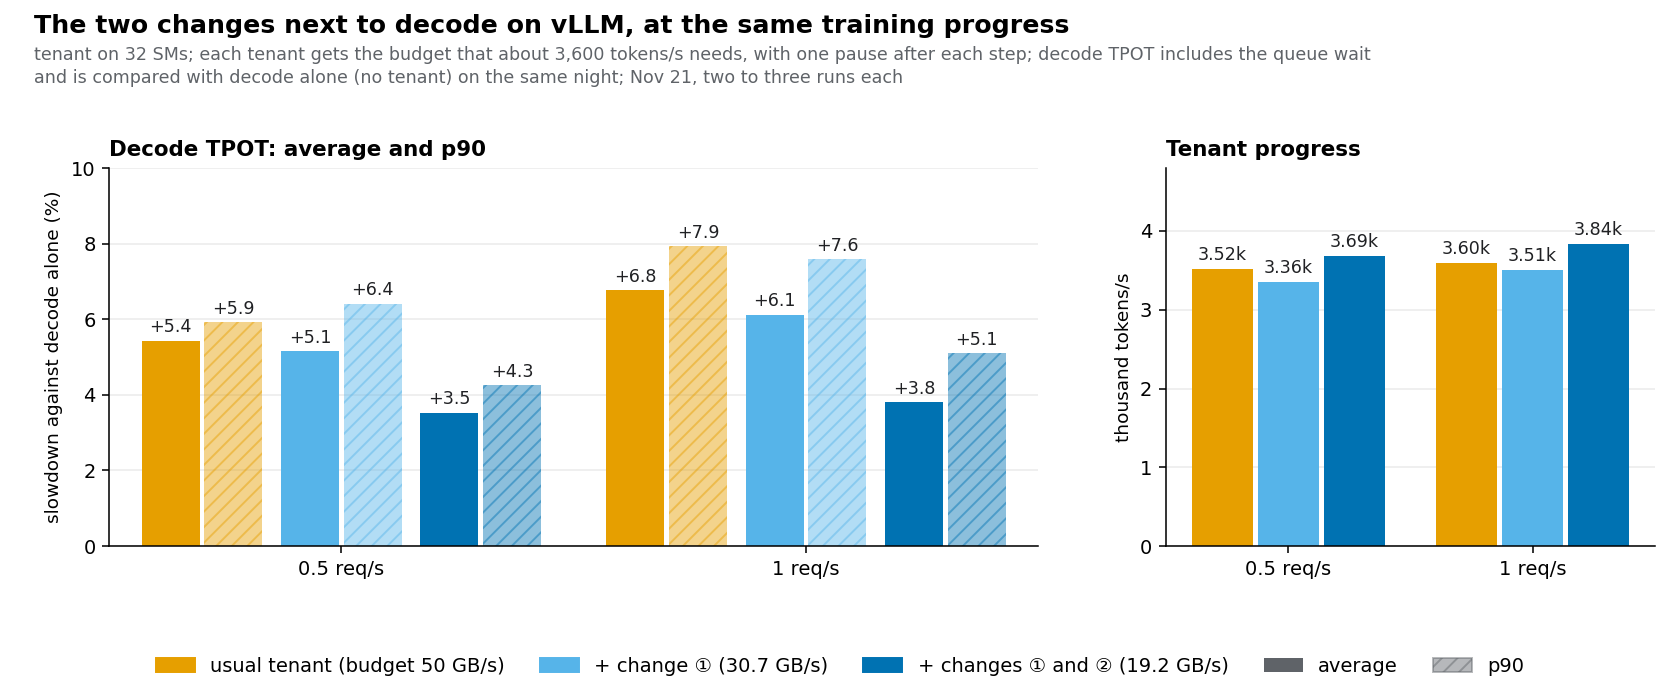
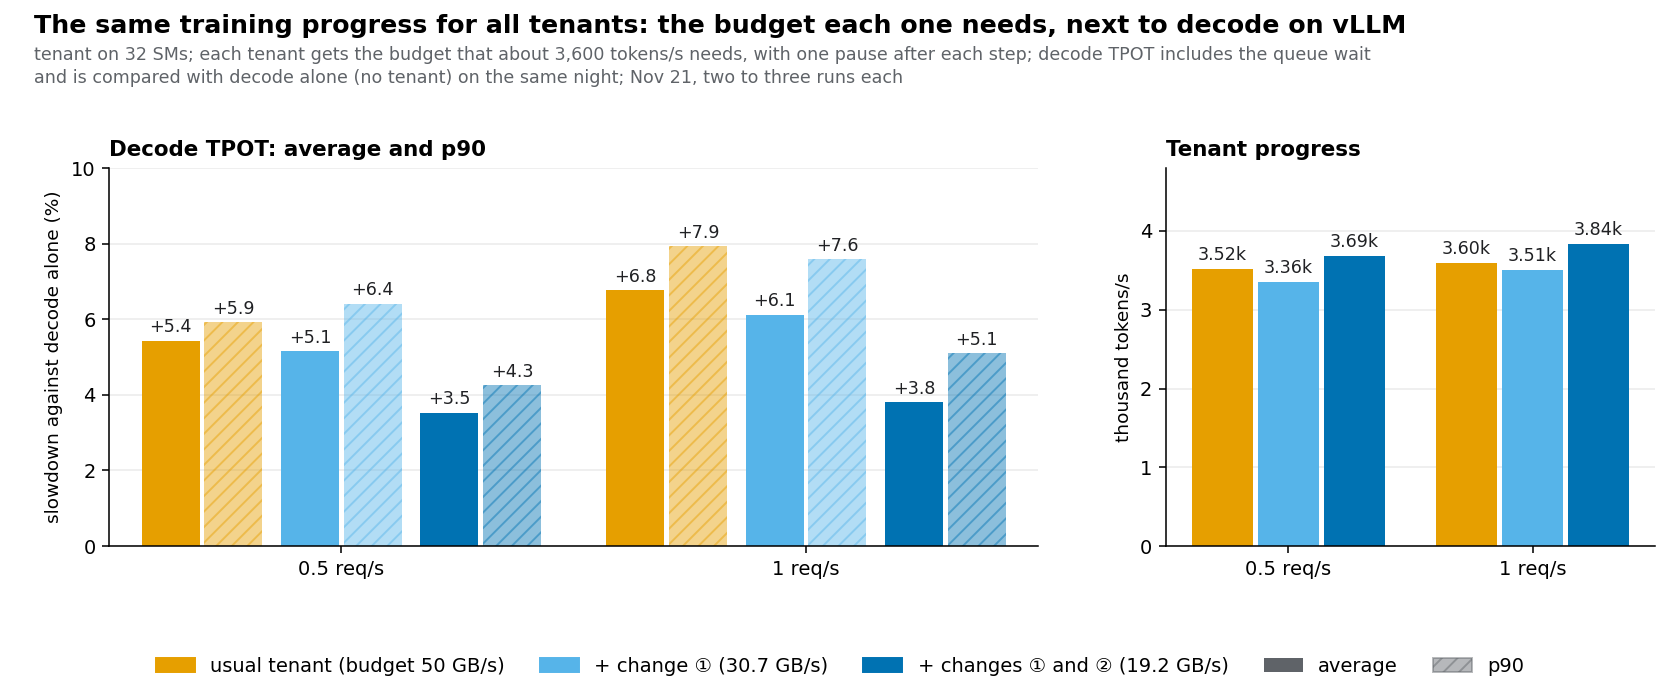
storyline/: step 14, the tenant with both changes at the usual tenant's budget, and at the usual tenant's training progress
14.1 same budget (50 GB/s): runs of Nov 22 (results_b50: engine alone, tenant with both changes with a pause after
the step and with chunks of 12 ms). Decode TPOT +6.7 / +7.8 % against +5.4 / +6.8 % for the usual tenant (Nov 21):
not faster; single-step p99 +7.4 % against +23.7 %; the tenant trains 2.5 times as much and is hardly held by the
budget (computing 89-96 % of the time, 43-46 GB/s by its table). Why decode is not faster with fewer bytes is open.
14.2 same training progress (the runs of Nov 21, budgets 50 / 30.7 / 19.2 GB/s): +3.5 / +3.8 %; the budget as a knob.
results_b50: phase tables, t0 and night summary (raw logs stay local, as for the other nights).

Changed region(s): [[0.0619, 0.0, 0.8357, 0.06]]

diff --git a/storyline/make_bws_figs.py b/storyline/make_bws_figs.py
@@ -314,7 +314,7 @@ def changes_result(out_name="bwr_result.png"):
             (["cvfm_step_r2", "cvfm_step_r3", "cvfm_step_r4"], "+ changes ① and ② (19.2 GB/s)", "#0072B2")]
     bm, b90 = by_rate(rd, base, "mean", rates), by_rate(rd, base, 90, rates)
     fig, ax = plt.subplots(1, 2, figsize=(12.0, 5.0), gridspec_kw=dict(width_ratios=[1.9, 1])); fig.subplots_adjust(top=0.76, bottom=0.22, left=0.065, right=0.985, wspace=0.18)
-    fig.suptitle("The two changes next to decode on vLLM, at the same training progress", x=0.02, ha="left", fontsize=13, fontweight="bold")
+    fig.suptitle("The same training progress for all tenants: the budget each one needs, next to decode on vLLM", x=0.02, ha="left", fontsize=13, fontweight="bold")
     fig.text(0.02, 0.905, "tenant on 32 SMs; each tenant gets the budget that about 3,600 tokens/s needs, with one pause after each step; decode TPOT includes the queue wait\n"
              "and is compared with decode alone (no tenant) on the same night; Nov 21, two to three runs each", ha="left", va="center", fontsize=9, color=MUTE, linespacing=1.4)
     w = 0.125; gap = 0.01; n = len(ARMS)
@@ -413,3 +413,33 @@ def chunk_detail(variant="cb_vocab4096f", out_name="bwr_chunks_detail.png", zoom
                loc="lower center", ncol=6, frameon=False, fontsize=9.5, bbox_to_anchor=(0.5, 0.008), columnspacing=1.8)
     out = os.path.join(H, "figures", out_name); fig.savefig(out, dpi=140); plt.close(fig); print(out)
 chunk_detail()
+
+# ---------------------------------------------------------------- one budget for both tenants (50 GB/s), next to decode on vLLM
+# Usual tenant: results_n21/c1_fix (+ _r2), Nov 21. Tenant with both changes: results_b50/cvfm_step_b50, Nov 22. Both pause once after
+# each step; each against decode alone of its own night (TPOT alone 12.92 / 13.81 ms and 12.92 / 13.82 ms at 0.5 / 1 req/s).
+def same_budget_result(out_name="bwr_same_budget.png"):
+    rates = [0.5, 1]
+    ARMS = [("results_n21", ["adjust_notenant", "adjust_notenant_b", "adjust_notenant_c", "adjust_notenant_d", "adjust_notenant_e"], ["c1_fix", "c1_fix_r2"], "usual tenant", "#E69F00"),
+            ("results_b50", ["adjust_notenant_a"], ["cvfm_step_b50"], "tenant with changes ① and ②", "#0072B2")]
+    fig, ax = plt.subplots(1, 2, figsize=(11.5, 5.0), gridspec_kw=dict(width_ratios=[1.75, 1])); fig.subplots_adjust(top=0.76, bottom=0.20, left=0.07, right=0.985, wspace=0.20)
+    fig.suptitle(f"The same budget for both tenants ({BUDGET} GB/s), next to decode on vLLM", x=0.02, ha="left", fontsize=13, fontweight="bold")
+    fig.text(0.02, 0.905, "tenant on 32 SMs, one pause after each step; decode TPOT includes the queue wait; each bar against decode alone (no tenant) of its own night:\n"
+             "usual tenant on Nov 21 (two runs), tenant with both changes on Nov 22 (one run)", ha="left", va="center", fontsize=9, color=MUTE, linespacing=1.4)
+    w = 0.19; gap = 0.015
+    for k, (rd, base, arms, name, col) in enumerate(ARMS):
+        bm, b90 = by_rate(rd, base, "mean", rates), by_rate(rd, base, 90, rates); m, p = by_rate(rd, arms, "mean", rates), by_rate(rd, arms, 90, rates)
+        ten = [float(np.mean([pd.read_csv(os.path.join(CA, rd, f"{a}_phases.csv")).query("rps == @r").ft_tok_s.mean() for a in arms])) / 1e3 for r in rates]
+        avg = [(m[r] / bm[r] - 1) * 100 for r in rates]; p90 = [(p[r] / b90[r] - 1) * 100 for r in rates]
+        print(f"{name:30s} avg " + " ".join(f"{v:+.1f}%" for v in avg) + "  p90 " + " ".join(f"{v:+.1f}%" for v in p90) + "  tenant " + " ".join(f"{v:.2f}k" for v in ten) + "   decode alone " + " ".join(f"{bm[r]:.2f}" for r in rates) + " ms")
+        for i in range(len(rates)):
+            xa = i + (2 * k - 1.5) * (w + gap) - (0.02 if k == 0 else -0.02); xp = xa + w + gap
+            ax[0].bar(xa, avg[i], w, color=col, lw=0, zorder=2); ax[0].bar(xp, p90[i], w, color=col, lw=0, alpha=0.45, hatch="///", edgecolor=col, zorder=2)
+            for x, v in ((xa, avg[i]), (xp, p90[i])): ax[0].text(x, v + 0.15, f"{v:+.1f} %", ha="center", va="bottom", fontsize=9, color=INK)
+            xt = i + (k - 0.5) * 0.39; ax[1].bar(xt, ten[i], 0.36, color=col, lw=0, zorder=2); ax[1].text(xt, ten[i] + 0.12, f"{ten[i]:.2f}k", ha="center", va="bottom", fontsize=9.5, color=INK)
+    for a, name, ymax, yl in zip(ax, ("Decode TPOT: average and p90", "Tenant progress"), (12, 11), ("slowdown against decode alone (%)", "thousand tokens/s")):
+        a.set_title(name, loc="left", fontsize=11, fontweight="bold"); a.set_xticks(range(len(rates))); a.set_xticklabels([f"{r:g} req/s" for r in rates], fontsize=10); a.set_ylim(0, ymax); a.set_ylabel(yl, fontsize=9.5)
+        a.set_xlim(-0.5, len(rates) - 0.5); a.grid(True, axis="y", alpha=0.25); a.set_axisbelow(True); a.spines[["top", "right"]].set_visible(False)
+    fig.legend(handles=[Patch(color=c, label=n) for _, _, _, n, c in ARMS] + [Patch(facecolor="#5f6368", label="average"), Patch(facecolor="#5f6368", alpha=0.45, hatch="///", edgecolor="#5f6368", label="p90")],
+               loc="lower center", ncol=4, frameon=False, fontsize=10, bbox_to_anchor=(0.5, 0.01), columnspacing=2.2)
+    out = os.path.join(H, "figures", out_name); fig.savefig(out, dpi=140); plt.close(fig); print(out)
+same_budget_result()

diff --git a/storyline/storyline_zh.md b/storyline/storyline_zh.md
@@ -7,7 +7,7 @@
 约定：显存 = GPU 上的内存；主机内存 = 机器的内存。数字后面都注明是哪一次测的、和什么比。
 
 状态：第 0–14 步已记录（第 8 步是问题 3 的前半：观察、排除主机拷贝、GPU 内部带宽、两个验证；第 9–12 步是"能不能调度 GPU 内部带宽"：
-两个方向、最简单的带宽额度、profile、改 tenant 的两处改动、按分段表切块；第 14 步的结果待重测）；后面的部分还没讲到。
+两个方向、最简单的带宽额度、profile、改 tenant 的两处改动、按分段表切块、和 decode 一起跑的结果）；后面的部分还没讲到。
 
 ---
 
@@ -942,14 +942,40 @@ checkpoints between them"是图 11-1 下半那个只多加了标记的 tenant。
 
 ---
 
-## 14. 结果：和 decode 一起跑（待用统一的额度重测）
+## 14. 结果：和 decode 一起跑
 
-> **这一步要重做。** 下面这组里三档 tenant 的额度不同（每秒 50、30.7、19.2 GB），实现和额度同时变了，不是只改一个变量的对比。
-> 统一额度（每秒 50 GB）的运行正在补测（`coloc_adjust/results_b50`），出来之后替换这一步。下面先保留已有的数据。
+设置和第 10 步一样：tenant 在 32 个 SM 上，给一个带宽额度，用第 13 步的方式记账。下面分两种比法：先让两种 tenant 用同一个额度，再让它们做同样多的训练。
 
+### 14.1 同样的额度：decode 没有变快，tenant 训练得快了 2.5 倍
 
-怎么比：设置和第 10 步一样（tenant 在 32 个 SM 上，给一个带宽额度）。要比的是"做同样多的训练，decode 付出多少"，所以三种 tenant 都按每秒约 3,600 个 token
-来定额度。每个 token 搬的数据不同，额度也就不同：
+![图 14-1](figures/bwr_same_budget.png)
+
+*图 14-1：两种 tenant 都给每秒 50 GB 的额度。左，decode 的 TPOT 比没有 tenant 时慢多少（实心是平均，斜线是 p90）；右，tenant 的训练进度。*
+
+| tenant，额度都是每秒 50 GB | TPOT 平均（0.5 / 1 req/s） | TPOT p90（0.5 / 1 req/s） | decode 单步时间的 p99 | tenant 进度（0.5 / 1 req/s） | tenant 在算的时间 | 实际搬的数据（按表算） |
+|---|---|---|---|---|---|---|
+| 普通，整步后歇 | +5.4 % / +6.8 % | +5.9 % / +7.9 % | +23.7 % | 3.52k / 3.60k tok/s | 54 % / 63 % | 50 / 52 GB/s |
+| 两处都改，整步后歇 | +6.7 % / +7.8 % | +9.1 % / +9.9 % | +7.4 % | 8.69k / 9.13k | 89 % / 96 % | 43 / 46 GB/s |
+| 两处都改，按块停 | +6.2 % / +7.1 % | +7.9 % / +8.7 % | +6.3 % | 8.11k / 8.43k | 85 % / 91 % | 41 / 43 GB/s |
+
+读出来的东西：
+
+- **decode 的平均没有变快**：同样的额度下，换成改过的 tenant，TPOT 平均反而多慢约 1 个点，p90 多慢 2–3 个点。
+- **decode 个别很慢的步没有了**：单步时间的 p99 从 +23.7 % 降到 +7.4 %。普通 tenant 那四个尖峰造成的就是这个尾巴。
+- **tenant 的训练进度是原来的 2.5 倍。** 原因是额度按数据量算，而改过的 tenant 每个 token 只搬 5.0–5.3 MB（普通 tenant 是 13.95 MB），同样每秒 50 GB 能换来的 token 就多了。
+  实际上它已经不是被额度限住的：它 89–96 % 的时间都在算，全速也只搬到每秒 43–46 GB，没到 50。普通 tenant 则有约四成的时间在歇。
+- **按块停**和整步后歇比，decode 好约半个点，tenant 也少训练约 7 %，两者大致成比例。
+
+**没有解释的一点：搬的数据少了一成多，decode 为什么没有变快，反而略慢？** 现在不知道。能说的只有：
+- "实际搬的数据"是按 tenant 单独跑时量的表算的。改过的 tenant 靠中间结果留在芯片的缓存里来少搬数据，而这块缓存是整张卡共用的；
+  和 decode 一起跑时它是不是还搬这么少，没有量过。
+- 除了搬数据，之前在模拟 decode 上单独测过另外两样也会让 decode 变慢（报告 2）：频繁启动 kernel，和矩阵乘法本身的运算。
+  改过的 tenant 每秒做的运算是普通 tenant 的 2.5 倍，这两样都可能变大了。它们没有和搬数据放在一起量过，tenant 每秒启动多少 kernel 也没有量过。
+- 排除了功耗：这几次运行里整卡功率是 320–400 W（上限 500 W），时钟频率和没有 tenant 时一样。
+
+### 14.2 同样的训练进度：额度可以收紧，decode 少慢约四成
+
+换一种比法：不让改过的 tenant 多训练，让它和普通 tenant 做一样多的训练（每秒约 3,600 个 token）。它每个 token 搬的数据少，需要的额度也就小：
 
 | tenant | 每个 token 搬的数据 | 每秒 3,600 个 token 需要的额度 |
 |---|---|---|
@@ -957,12 +983,9 @@ checkpoints between them"是图 11-1 下半那个只多加了标记的 tenant。
 | ＋改动一 | 8.54 MB | 30.7 GB/s |
 | ＋改动一、二 | 5.34 MB | 19.2 GB/s |
 
-也就是说，额度不是三档都给每秒 50 GB。改 tenant 的好处正是：做同样多的训练，需要的额度变小了。如果三档都给每秒 50 GB，改过的 tenant 会训练得更快，
-比的就不是同样多的训练了。
+![图 14-2](figures/bwr_result.png)
 
-![图 12-5](figures/bwr_result.png)
-
-*图 12-5：左，decode 的 TPOT 比没有 tenant 时慢多少（实心是平均，斜线是 p90）；右，tenant 的训练进度。*
+*图 14-2：三种 tenant 做同样多的训练，各自给它需要的额度。左，decode 的 TPOT 比没有 tenant 时慢多少（实心是平均，斜线是 p90）；右，tenant 的训练进度。*
 
 | tenant | 额度 | TPOT 平均（0.5 / 1 req/s） | TPOT p90（0.5 / 1 req/s） | decode 单步时间的 p99 | tenant 进度（0.5 / 1 req/s） |
 |---|---|---|---|---|---|
@@ -972,29 +995,38 @@ checkpoints between them"是图 11-1 下半那个只多加了标记的 tenant。
 
 读出来的东西：
 
-- **平均**：两处都做之后，decode 的变慢从 +5.4 % / +6.8 % 降到 +3.5 % / +3.8 %，少了约四成；p90 从 +5.9 % / +7.9 % 降到 +4.3 % / +5.1 %。
-- **但只做改动一，平均几乎没变**（+5.1 % / +6.1 %），尽管它已经去掉了尖峰、每秒搬的数据也少了约四成。它改善的是尾巴：
-  decode 单步时间的 p99 从 +23.7 % 降到 +6.9 %。所以**尖峰造成的是 decode 个别很慢的步，不是平均的变慢**。
-- **tenant 的进度**三档接近，两处都做的那档还略快（+5 到 +7 %），所以它对 decode 的好处没有被高估。
-- **和"均匀搬运"比，差距没有缩小。** 按 8.5 节那条线，同样的额度均匀搬运时 decode 大约慢 +3.0–3.5 %、+1.8–2.2 %、+0.8–1.6 %
-  （后两个是在 0 和 50 GB/s 两个测点之间插值的）。三档实测都明显更高。也就是数据量和 decode 的代价一起降了，但真实 tenant 每搬 1 GB 的代价始终比只搬数据的任务高，
-  原因没有查清。
+- **同样的训练进度下，decode 的变慢从 +5.4 % / +6.8 % 降到 +3.5 % / +3.8 %**，少了约四成；p90 从 +5.9 % / +7.9 % 降到 +4.3 % / +5.1 %。
+- 只做改动一时平均几乎没变（+5.1 % / +6.1 %），改善的是尾巴（单步 p99 从 +23.7 % 到 +6.9 %）。
+- tenant 的进度三档接近，两处都做的那档还略快（+5 到 +7 %）。
+- 这张图里实现和额度是一起变的，所以它回答的不是"同样的带宽下 decode 少慢多少"（那是 14.1），而是"同样的训练，改过的 tenant 让 decode 少付多少"。
+
+**额度是一个连续的旋钮。** 两处都改的 tenant 在不同额度下（按块停；每个额度一次或三次运行）：
+
+| 额度 | TPOT 平均（0.5 / 1 req/s） | tenant 进度（0.5 / 1 req/s） |
+|---|---|---|
+| 9.6 GB/s | +2.4 % / +2.7 % | 1.80k / 1.88k tok/s |
+| 19.2 GB/s | +3.5 % / +3.9 % | 3.69k / 3.84k |
+| 38.4 GB/s | +5.5 % / +6.2 % | 6.88k / 7.13k |
+| 50 GB/s | +6.2 % / +7.1 % | 8.11k / 8.43k |
+
+decode 的变慢和 tenant 的进度一起升降，接近一条直线。所以两种比法是同一条线上的两个读法：横着看（同样的代价）改过的 tenant 多训练，竖着看（同样的训练）decode 少慢。
+另外额度不变（每秒 19.2 GB）、tenant 改用 16 或 64 个 SM 时，decode 是 +3.6 % / +4.1 到 +4.2 %，和 32 个 SM 一样。
 
 数据说明：
-- vLLM，11 分钟的参考负载，11 月 21 日那晚（GPU 0，500 W）。基准是同一晚没有 tenant 的 decode（5 次合在一起，各次之间平均最多相差 0.3 %）。
-  普通和＋改动一各 2 次，两处都做 3 次；同一设置重复跑，平均最多相差 0.2 个点。TPOT 含排队。
+- vLLM，11 分钟的参考负载，GPU 0，500 W，TPOT 含排队。每个数都是和**同一晚没有 tenant 的 decode** 比。
+- **14.1 的两种 tenant 不是同一晚测的**：普通 tenant 是 11 月 21 日（`results_n21/c1_fix`，2 次），两处都改的是 11 月 22 日（`results_b50`，整步后歇和按块停各 1 次）。
+  两晚没有 tenant 时 decode 的 TPOT 几乎相同（12.92 / 13.81 毫秒对 12.92 / 13.82 毫秒）。只做改动一的 tenant 没有在每秒 50 GB 下跑过。
+- 14.1 里 1 个点左右的差别只来自一次运行，不能说"改过的 tenant 让 decode 更慢"，只能说"没有更快"。
+- 14.2 的三档都是 11 月 21 日那晚测的，都是整步后歇；普通和＋改动一各 2 次，两处都改 3 次，同一设置重复跑平均最多相差 0.2 个点。
+  缺"改动二只用在 24 层上"那一档，所以改动二用在 24 层上和用在输出层上各自的贡献分不开。
 - **decode 单步时间的 p99**：把相邻两个 token 之间的间隔逐个拿出来，去掉别的请求刚进来时那几个本来就很长的间隔，按当时有几个请求在生成分组，
   各组和基准的同一组比，再取平均；0.5 和 1 req/s 合在一起算。各次基准之间这个量相差约 4 %，所以 3–4 个点以内的差别不算数。
-- **停法**：这一晚三档用的都是"整步算完再歇一次"（第 13 步的记账方式里时间窗取无穷大的那种；普通 tenant 用的是旧代码里同样的停法）。
-- **缺"改动二只用在 24 层上"那一档**：它只有 tenant 单独跑的数据（图 12-4 的第三行），没有在 vLLM 上跑过，所以改动二用在 24 层上和用在输出层上各自对 decode 的贡献分不开。
-- **两处都做的 tenant 还有两点不同**：它需要的显存少（同一种分批方式下 2.3 GiB 对 5.0 GiB），所以多数时候用更大的分批方式（约 90 % 的步是 2 批、每批 4 条）；
-  它不使用把一部分数据放到主机内存的那几种分批方式（逐层编译不支持）。整个 11 分钟里它的进度是 2,480 tok/s，普通 tenant 是 2,145。
+- "实际搬的数据"是 tenant 的训练速度乘以它单独跑时每个 token 搬的数据量，不是直接量的。"在算的时间"是 tenant 自己记录的每步用时减去歇的时间。
+- 只看 0.5 和 1 req/s：更高的到达率下 tenant 的显存不够，进度由显存决定（7.4 节）。
+- 两处都改的 tenant 需要的显存少（同一种分批方式下 2.3 GiB 对 5.0 GiB），所以多数时候用更大的分批方式（2 批、每批 4 条，这时每个 token 搬 5.0 MB）；
+  它不使用把一部分数据放到主机内存的那几种分批方式（逐层编译不支持）。
 - **训练内容是否相同**：同一批数据上 loss 一致到小数点后 5 位；LoRA 参数的梯度相差约 0.5 %，而普通 tenant 自己连跑两次也相差 0.4 %。
   连续训练 1,500 步，新旧两种 tenant 每步 loss 平均相差 0.0009，普通 tenant 自己两次运行之间是 0.0014。是"在数值误差范围内相同"，不是逐位相同。
-- 图 12-2 的操作和大小来自 `coloc_adjust/compile_demo.py`（CPU 上记录；GPU 上合并的是同一批操作，生成的代码不同）。图 12-3 的操作顺序来自
-  `coloc_adjust/head_loss.py`，大小按张量形状算。整个一层里具体哪些操作被合并了、词表块里是不是正好合成一个 kernel，没有打开生成的代码逐个确认；量过的是图 12-4 的结果。
-- 图 12-1、12-4 来自 `coloc_adjust/results_prof/seg_summary.md`（tenant 单独跑，32 个 SM）。
-- 之前的报告和代码里把"改动二用在输出层上"单独叫作改动三或"融合 kernel"，是同一件事。
 
 ---
 
@@ -1015,7 +1047,7 @@ checkpoints between them"是图 11-1 下半那个只多加了标记的 tenant。
 | 第 11 步的图用的是之前报告里的词（micro-batch、block、checkpoint）；要不要按故事线的词重画 | 你定；不需要实验 |
 | 第 12.1 步的图用的是之前报告里的词（block 指层），和第 11 步的图一样；要不要按故事线的词重画 | 你定；不需要实验 |
 | 第 14 步缺"改动二只用在 24 层上"在 vLLM 上的一档，改动二在 24 层上和在输出层上的贡献分不开 | 你定；新实验，每次 11 分钟 GPU；等"启动" |
-| 第 14 步：真实 tenant 每搬 1 GB 的代价始终高于只搬数据的任务，数据量减下去之后差距没有缩小；原因没有查清 | 要不要查、怎么讲，你定 |
-| 第 14 步现有的对比同时改了实现和额度；统一额度（每秒 50 GB）的运行在补测 | 11 月 22 日晚已启动两处都改的 tenant（两种停法）和基准；做了改动一的 tenant 在每秒 50 GB 下还没有 |
-| 第 13 步：额度现在保证的是平均值（12 毫秒窗口里最高到额度的 1.4 倍，1 毫秒里是 tenant 的全速），而目标是上限。做法一：记账改成严格模式（块在将要超过之前切、迟到不补），保证任意 12 毫秒不超额度；做法二：用 tenant 的 SM 数压低它算的时候的流量 | 先放着（Jiaxuan，11 月 22 日）；要改代码和用 GPU，等"启动"；定了之后第 13 步的文字和图 13-3 要跟着改 |
+| 第 14.1 步：搬的数据少了，decode 为什么没有变快。要查三件事：① vLLM 运行时记录整卡的带宽计数器，看 tenant 在 decode 旁边实际搬多少；② 数普通和改过的 tenant 每秒启动多少 kernel；③ 在 vLLM 上做单一工作的对照（只搬数据、只启动 kernel、只做矩阵乘法） | 先把故事讲完再补（Jiaxuan，11 月 22 日）；新实验，等"启动" |
+| 第 14.1 步的两种 tenant 不是同一晚测的，改过的只跑了一次；只做改动一的 tenant 在每秒 50 GB 下没跑过 | 你定；新实验，每次 11 分钟；等"启动" |
+| 第 13 步：额度现在保证的是平均值（两处都改的 tenant 在 12 毫秒窗口里最高到额度的 1.9 倍，1 毫秒里是 tenant 的全速），而目标是上限。做法一：记账改成严格模式（块在将要超过之前切、迟到不补），保证任意 12 毫秒不超额度；做法二：用 tenant 的 SM 数压低它算的时候的流量 | 先放着（Jiaxuan，11 月 22 日）；要改代码和用 GPU，等"启动"；定了之后第 13 步的文字和图 13-3 要跟着改 |
 | 第 14 步之后的故事（额度由延迟反馈来定；总的结论） | 等你继续讲 |

diff --git a/coloc_adjust/results_b50/cvfm_w12_b50_phases.md b/coloc_adjust/results_b50/cvfm_w12_b50_phases.md
@@ -1,0 +1,15 @@
+## cvfm_w12_b50
+
+| rps | n | failed | ttft50 | ttft95 | tpot50 | tpot95 | queue_ms | tok_s_done | offered_tok_s | preempt | kvc_used_gib | limit_gib | ft_budget_gib | ft_tier_mode | ft_cfg_mode | ft_reserved_gib | ft_tok_s | ft_gated_frac |
+|---|---|---|---|---|---|---|---|---|---|---|---|---|---|---|---|---|---|---|
+| 1.00 | 86 | 0 | 171 | 231 | 14.04 | 16.21 | 112 | 138 | 128 | 0 | 1.56 | 5.50 | 6.28 | 1.00 | 1.00 | 2.88 | 8551 | 0.00 |
+| 2.00 | 161 | 0 | 189 | 268 | 16.41 | 21.01 | 129 | 258 | 256 | 0 | 3.88 | 8.00 | 3.78 | 1.00 | 1.00 | 2.88 | 5939 | 0.00 |
+| 3.00 | 245 | 0 | 254 | 1432 | 21.68 | 26.72 | 308 | 398 | 384 | 6 | 7.09 | 12.50 | 0.00 | 1.00 | 2.00 | 1.71 | 153 | 0.00 |
+| 1.00 | 74 | 0 | 167 | 240 | 13.35 | 16.26 | 111 | 115 | 128 | 0 | 1.56 | 4.50 | 7.28 | 1.00 | 1.00 | 2.88 | 8500 | 0.00 |
+| 4.00 | 201 | 0 | 2908 | 4168 | 25.56 | 29.15 | 2722 | 502 | 512 | 5 | 10.88 | 12.50 | 0.00 |  |  |  | 0 | 0.00 |
+| 0.50 | 32 | 0 | 158 | 182 | 12.79 | 15.11 | 97 | 79 | 64 | 0 | 0.81 | 3.00 | 8.78 | 1.00 | 1.00 | 2.88 | 8110 | 0.00 |
+| 2.00 | 34 | 0 | 191 | 580 | 16.82 | 19.60 | 127 | 205 | 256 | 0 | 3.06 | 8.00 | 3.78 | 1.00 | 1.00 | 2.88 | 7783 | 0.00 |
+| 3.00 | 61 | 0 | 205 | 481 | 20.56 | 24.90 | 180 | 339 | 384 | 0 | 5.75 | 12.00 | 0.00 | 1.00 | 1.00 | 2.88 | 1434 | 0.00 |
+| 2.00 | 50 | 0 | 201 | 303 | 18.99 | 21.00 | 141 | 314 | 256 | 0 | 4.69 | 12.00 | 0.00 | 1.00 | 1.00 | 2.88 | 1434 | 0.00 |
+| 1.00 | 23 | 0 | 166 | 237 | 13.55 | 15.41 | 111 | 128 | 128 | 0 | 1.56 | 4.50 | 7.28 | 1.00 | 1.00 | 2.88 | 8193 | 0.00 |
+| 1.00 | 40 | 0 | 164 | 232 | 13.21 | 14.63 | 106 | 99 | 128 | 0 | 0.88 | 4.00 | 7.78 | 1.00 | 1.00 | 2.88 | 8469 | 0.00 |

diff --git a/coloc_adjust/results_b50/cvfm_step_b50_phases.md b/coloc_adjust/results_b50/cvfm_step_b50_phases.md
@@ -1,0 +1,15 @@
+## cvfm_step_b50
+
+| rps | n | failed | ttft50 | ttft95 | tpot50 | tpot95 | queue_ms | tok_s_done | offered_tok_s | preempt | kvc_used_gib | limit_gib | ft_budget_gib | ft_tier_mode | ft_cfg_mode | ft_reserved_gib | ft_tok_s | ft_gated_frac |
+|---|---|---|---|---|---|---|---|---|---|---|---|---|---|---|---|---|---|---|
+| 1.00 | 86 | 0 | 173 | 225 | 14.03 | 16.42 | 112 | 138 | 128 | 0 | 1.56 | 5.50 | 6.28 | 1.00 | 1.00 | 2.88 | 9320 | 0.00 |
+| 2.00 | 161 | 0 | 192 | 269 | 16.48 | 21.05 | 130 | 258 | 256 | 0 | 3.88 | 8.00 | 3.78 | 1.00 | 1.00 | 2.88 | 6451 | 0.00 |
+| 3.00 | 245 | 0 | 252 | 1441 | 21.67 | 26.57 | 309 | 398 | 384 | 6 | 7.62 | 12.50 | 0.00 |  |  |  | 0 | 0.00 |
+| 1.00 | 74 | 0 | 167 | 246 | 13.48 | 16.44 | 111 | 115 | 128 | 0 | 1.56 | 4.50 | 7.28 | 1.00 | 1.00 | 2.88 | 9166 | 0.00 |
+| 4.00 | 201 | 0 | 2984 | 4127 | 25.59 | 29.16 | 2746 | 502 | 512 | 5 | 10.88 | 12.50 | 0.00 |  |  |  | 0 | 0.00 |
+| 0.50 | 32 | 0 | 157 | 186 | 12.88 | 15.28 | 97 | 79 | 64 | 0 | 0.81 | 3.00 | 8.78 | 1.00 | 1.00 | 2.88 | 8686 | 0.00 |
+| 2.00 | 34 | 0 | 191 | 590 | 17.67 | 19.67 | 128 | 205 | 256 | 0 | 3.09 | 8.00 | 3.78 | 1.00 | 1.00 | 2.88 | 8191 | 0.00 |
+| 3.00 | 61 | 0 | 218 | 492 | 20.61 | 25.07 | 184 | 339 | 384 | 0 | 5.44 | 12.00 | 0.00 | 1.00 | 1.00 | 2.88 | 1434 | 0.00 |
+| 2.00 | 50 | 0 | 206 | 305 | 19.32 | 21.28 | 139 | 314 | 256 | 0 | 4.69 | 12.00 | 0.00 | 1.00 | 1.00 | 2.88 | 1434 | 0.00 |
+| 1.00 | 23 | 0 | 173 | 241 | 13.83 | 15.59 | 104 | 128 | 128 | 0 | 1.56 | 4.50 | 7.28 | 1.00 | 1.00 | 2.88 | 9011 | 0.00 |
+| 1.00 | 40 | 0 | 166 | 228 | 13.33 | 14.75 | 105 | 99 | 128 | 0 | 0.88 | 4.00 | 7.78 | 1.00 | 1.00 | 2.88 | 9041 | 0.00 |

diff --git a/coloc_adjust/results_b50/night_summary.md b/coloc_adjust/results_b50/night_summary.md
@@ -1,0 +1,18 @@
+# vLLM-engine runs in results_b50: every number against the engine alone on the same night, arrival rates 0.5,1 req/s
+
+Baseline runs pooled: adjust_notenant_a. Baseline values: mean gap 12.64 ms, median gap 11.99 ms; TPOT median 12.48 ms, p90 14.36 ms; single steps with 1 / 2 / 3 requests generating: median 10.66 / 11.93 / 12.30 ms, p99 11.18 / 12.54 / 13.07 ms; all-gap p90 / p95 / p99 12.86 / 14.25 / 66.47 ms.
+
+## Every run
+
+| run | mean gap | TPOT p50 | TPOT p90 | step p50 | step p90 | step p99 | all-gap p90 | all-gap p95 | all-gap p99 | tenant tok/s | computing | tenant tok/s, whole run | pauses per step |
+|---|---|---|---|---|---|---|---|---|---|---|---|---|---|
+| cvfm_step_b50 | +7.8 % | +7.4 % | +8.7 % | +6.2 % | +6.9 % | +7.4 % | +11.6 % | +8.9 % | +1.7 % | 9,013 | 94 % | 5,853 | 0 |
+| cvfm_w12_b50 | +7.1 % | +6.8 % | +8.1 % | +5.8 % | +6.2 % | +6.3 % | +10.2 % | +7.5 % | +1.3 % | 8,350 | 89 % | 5,455 | 12 |
+| adjust_notenant_a | +0.0 % | +0.0 % | +0.0 % | +0.0 % | +0.0 % | +0.0 % | +0.0 % | +0.0 % | +0.0 % | | | | |
+
+## Repeats: mean (lowest to highest)
+
+| run | n | mean gap | TPOT p50 | TPOT p90 | step p50 | step p90 | step p99 | all-gap p90 | all-gap p95 | all-gap p99 | tenant tok/s | computing | tenant tok/s, whole run | pauses per step |
+|---|---|---|---|---|---|---|---|---|---|---|---|---|---|---|
+| cvfm_step_b50 | 1 | +7.8 % | +7.4 % | +8.7 % | +6.2 % | +6.9 % | +7.4 % | +11.6 % | +8.9 % | +1.7 % | 9,013 | 94 % | 5,853 | 0 |
+| cvfm_w12_b50 | 1 | +7.1 % | +6.8 % | +8.1 % | +5.8 % | +6.2 % | +6.3 % | +10.2 % | +7.5 % | +1.3 % | 8,350 | 89 % | 5,455 | 12 |

diff --git a/coloc_adjust/results_b50/adjust_notenant_a_phases.md b/coloc_adjust/results_b50/adjust_notenant_a_phases.md
@@ -1,0 +1,15 @@
+## adjust_notenant_a
+
+| rps | n | failed | ttft50 | ttft95 | tpot50 | tpot95 | queue_ms | tok_s_done | offered_tok_s | preempt | kvc_used_gib | limit_gib | ft_budget_gib |
+|---|---|---|---|---|---|---|---|---|---|---|---|---|---|
+| 1.00 | 86 | 0 | 159 | 216 | 12.97 | 15.00 | 108 | 138 | 128 | 0 | 1.56 | 5.00 | 6.78 |
+| 2.00 | 161 | 0 | 177 | 245 | 15.22 | 20.07 | 124 | 258 | 256 | 0 | 3.25 | 8.00 | 3.78 |
+| 3.00 | 245 | 0 | 252 | 1108 | 21.25 | 26.26 | 269 | 402 | 384 | 1 | 7.06 | 12.65 | 0.00 |
+| 1.00 | 74 | 0 | 155 | 232 | 12.55 | 15.04 | 105 | 115 | 128 | 0 | 1.00 | 4.50 | 7.28 |
+| 4.00 | 201 | 0 | 1610 | 2616 | 26.42 | 29.97 | 1556 | 512 | 512 | 2 | 11.69 | 12.65 | 0.00 |
+| 0.50 | 32 | 0 | 152 | 167 | 12.00 | 14.07 | 95 | 79 | 64 | 0 | 0.81 | 3.00 | 8.78 |
+| 2.00 | 34 | 0 | 181 | 563 | 15.51 | 18.23 | 122 | 205 | 256 | 0 | 2.38 | 8.00 | 3.78 |
+| 3.00 | 61 | 0 | 209 | 345 | 20.18 | 25.68 | 157 | 339 | 384 | 0 | 5.44 | 12.65 | 0.00 |
+| 2.00 | 50 | 0 | 200 | 300 | 18.13 | 20.62 | 133 | 314 | 256 | 0 | 4.69 | 11.00 | 0.78 |
+| 1.00 | 23 | 0 | 156 | 222 | 12.74 | 14.19 | 101 | 128 | 128 | 0 | 1.56 | 4.50 | 7.28 |
+| 1.00 | 40 | 0 | 156 | 223 | 12.41 | 13.66 | 100 | 99 | 128 | 0 | 0.88 | 4.00 | 7.78 |
